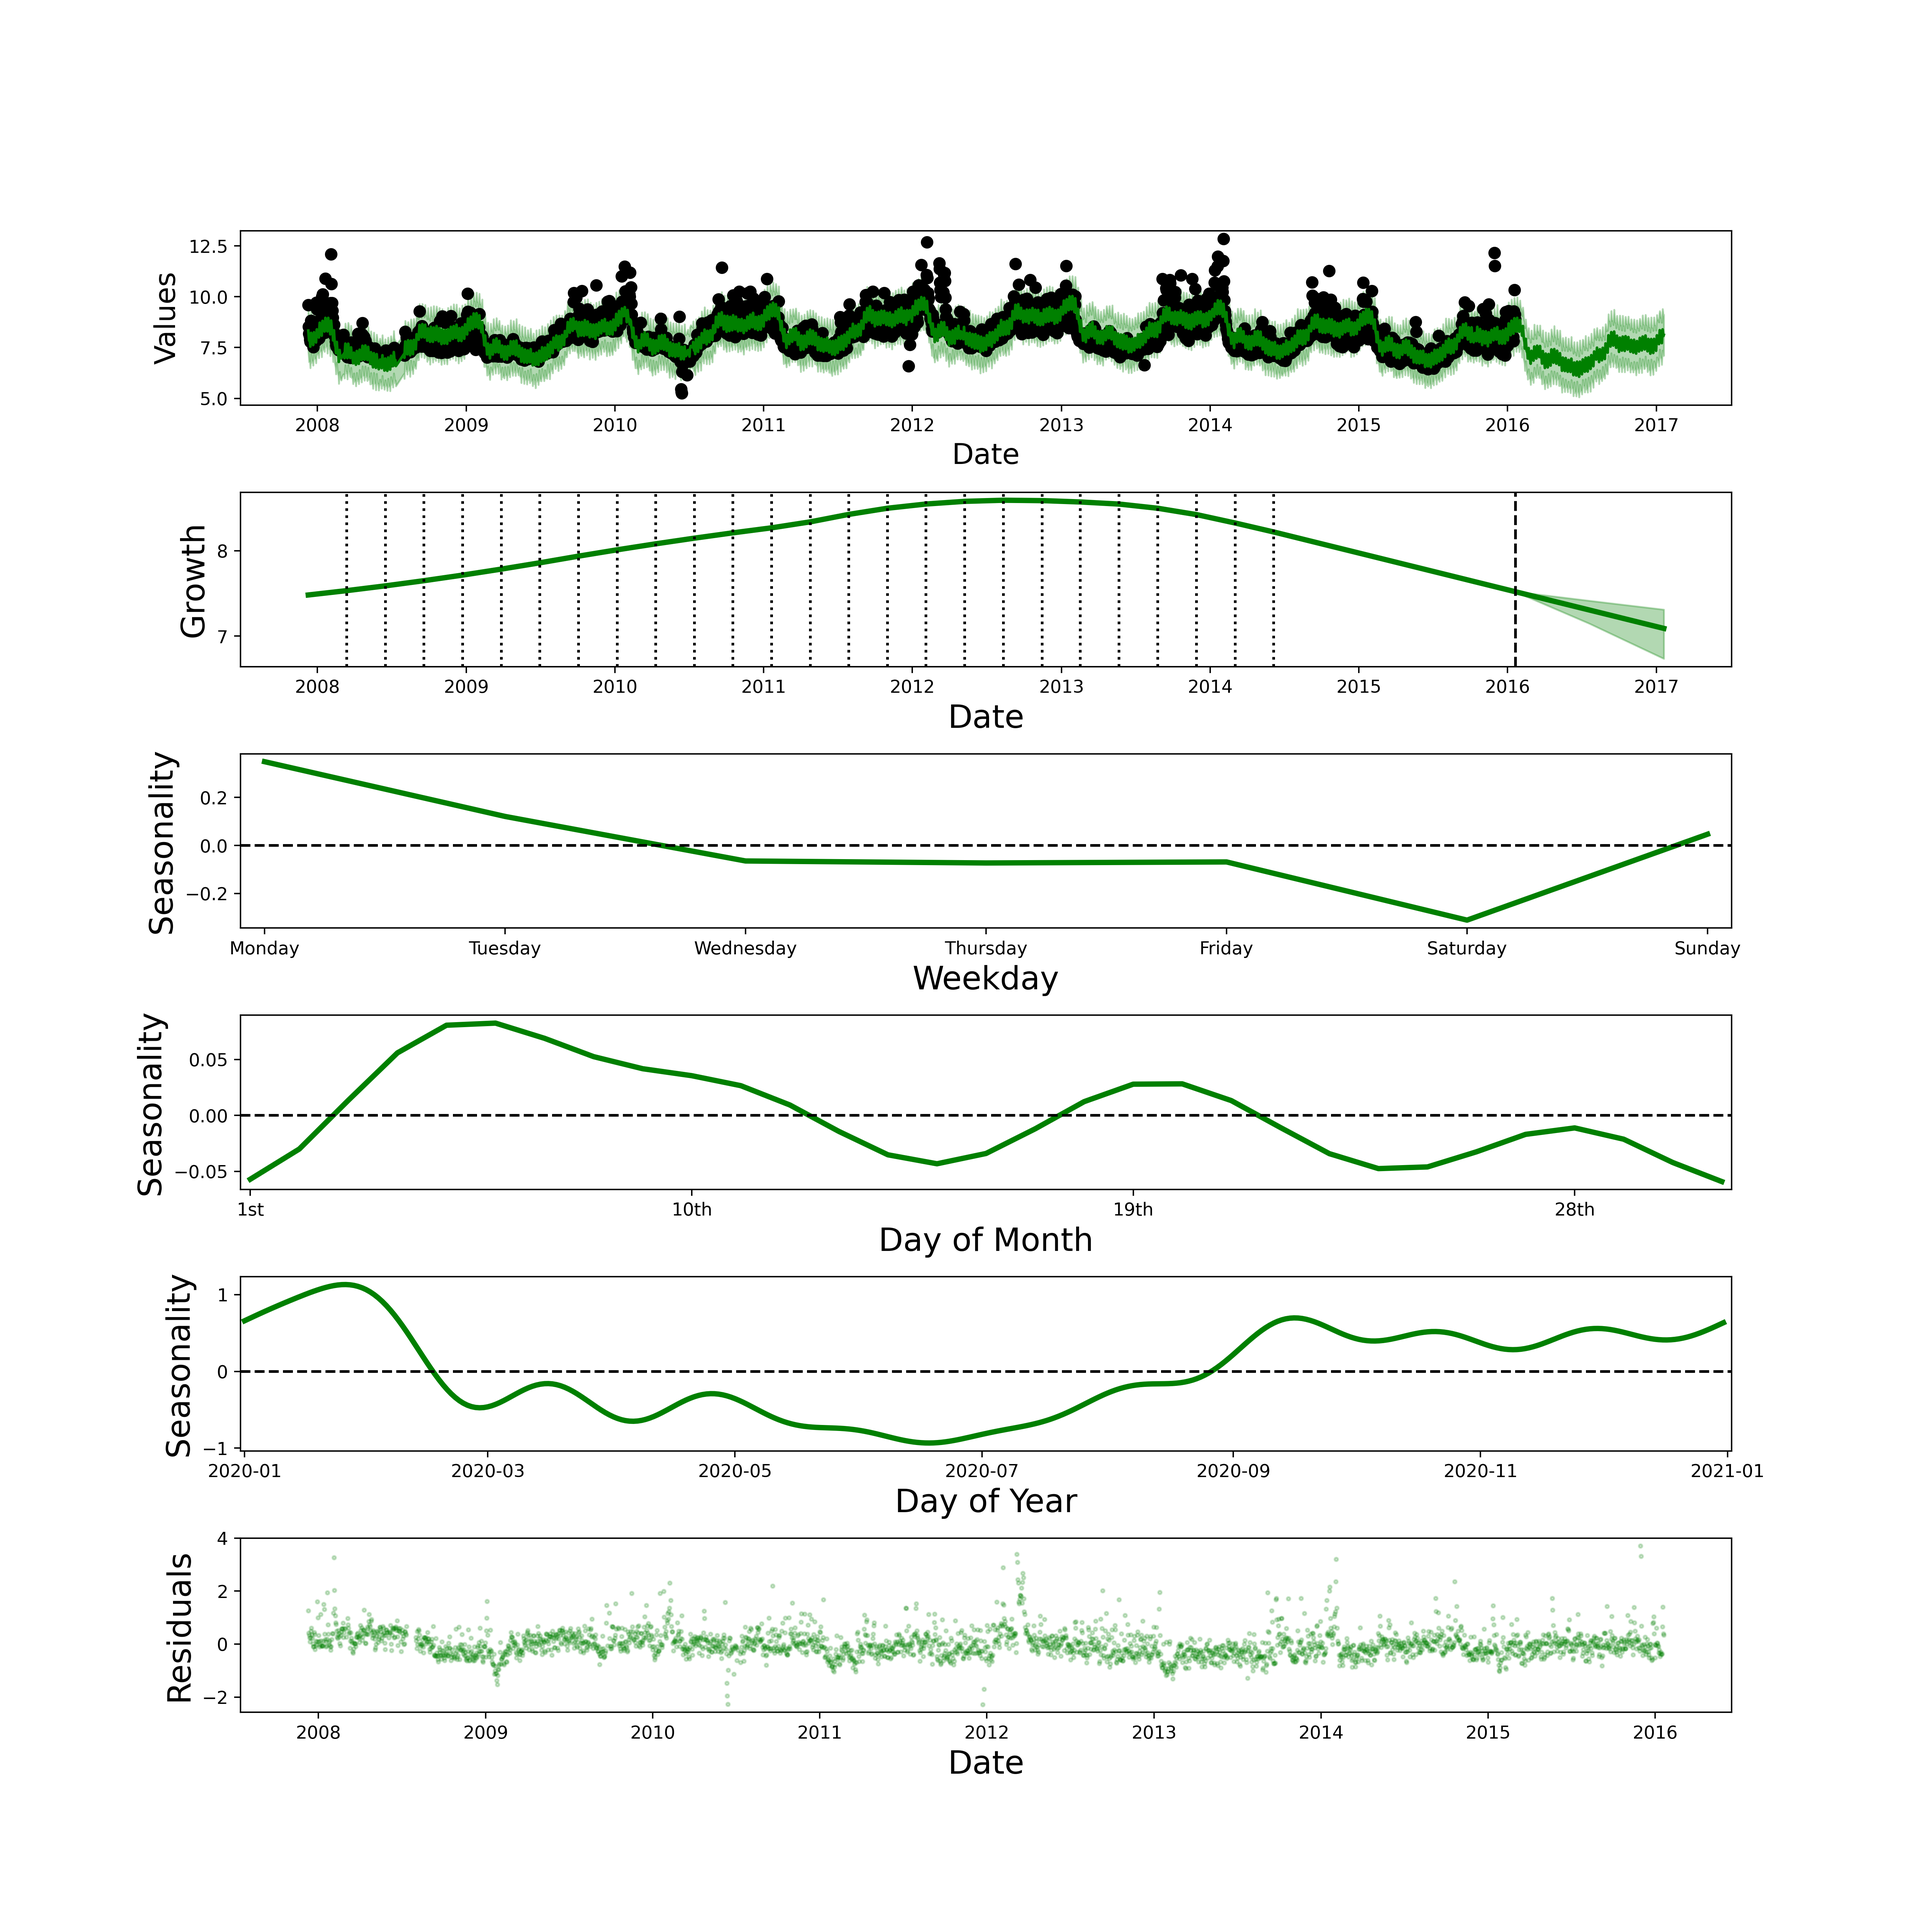
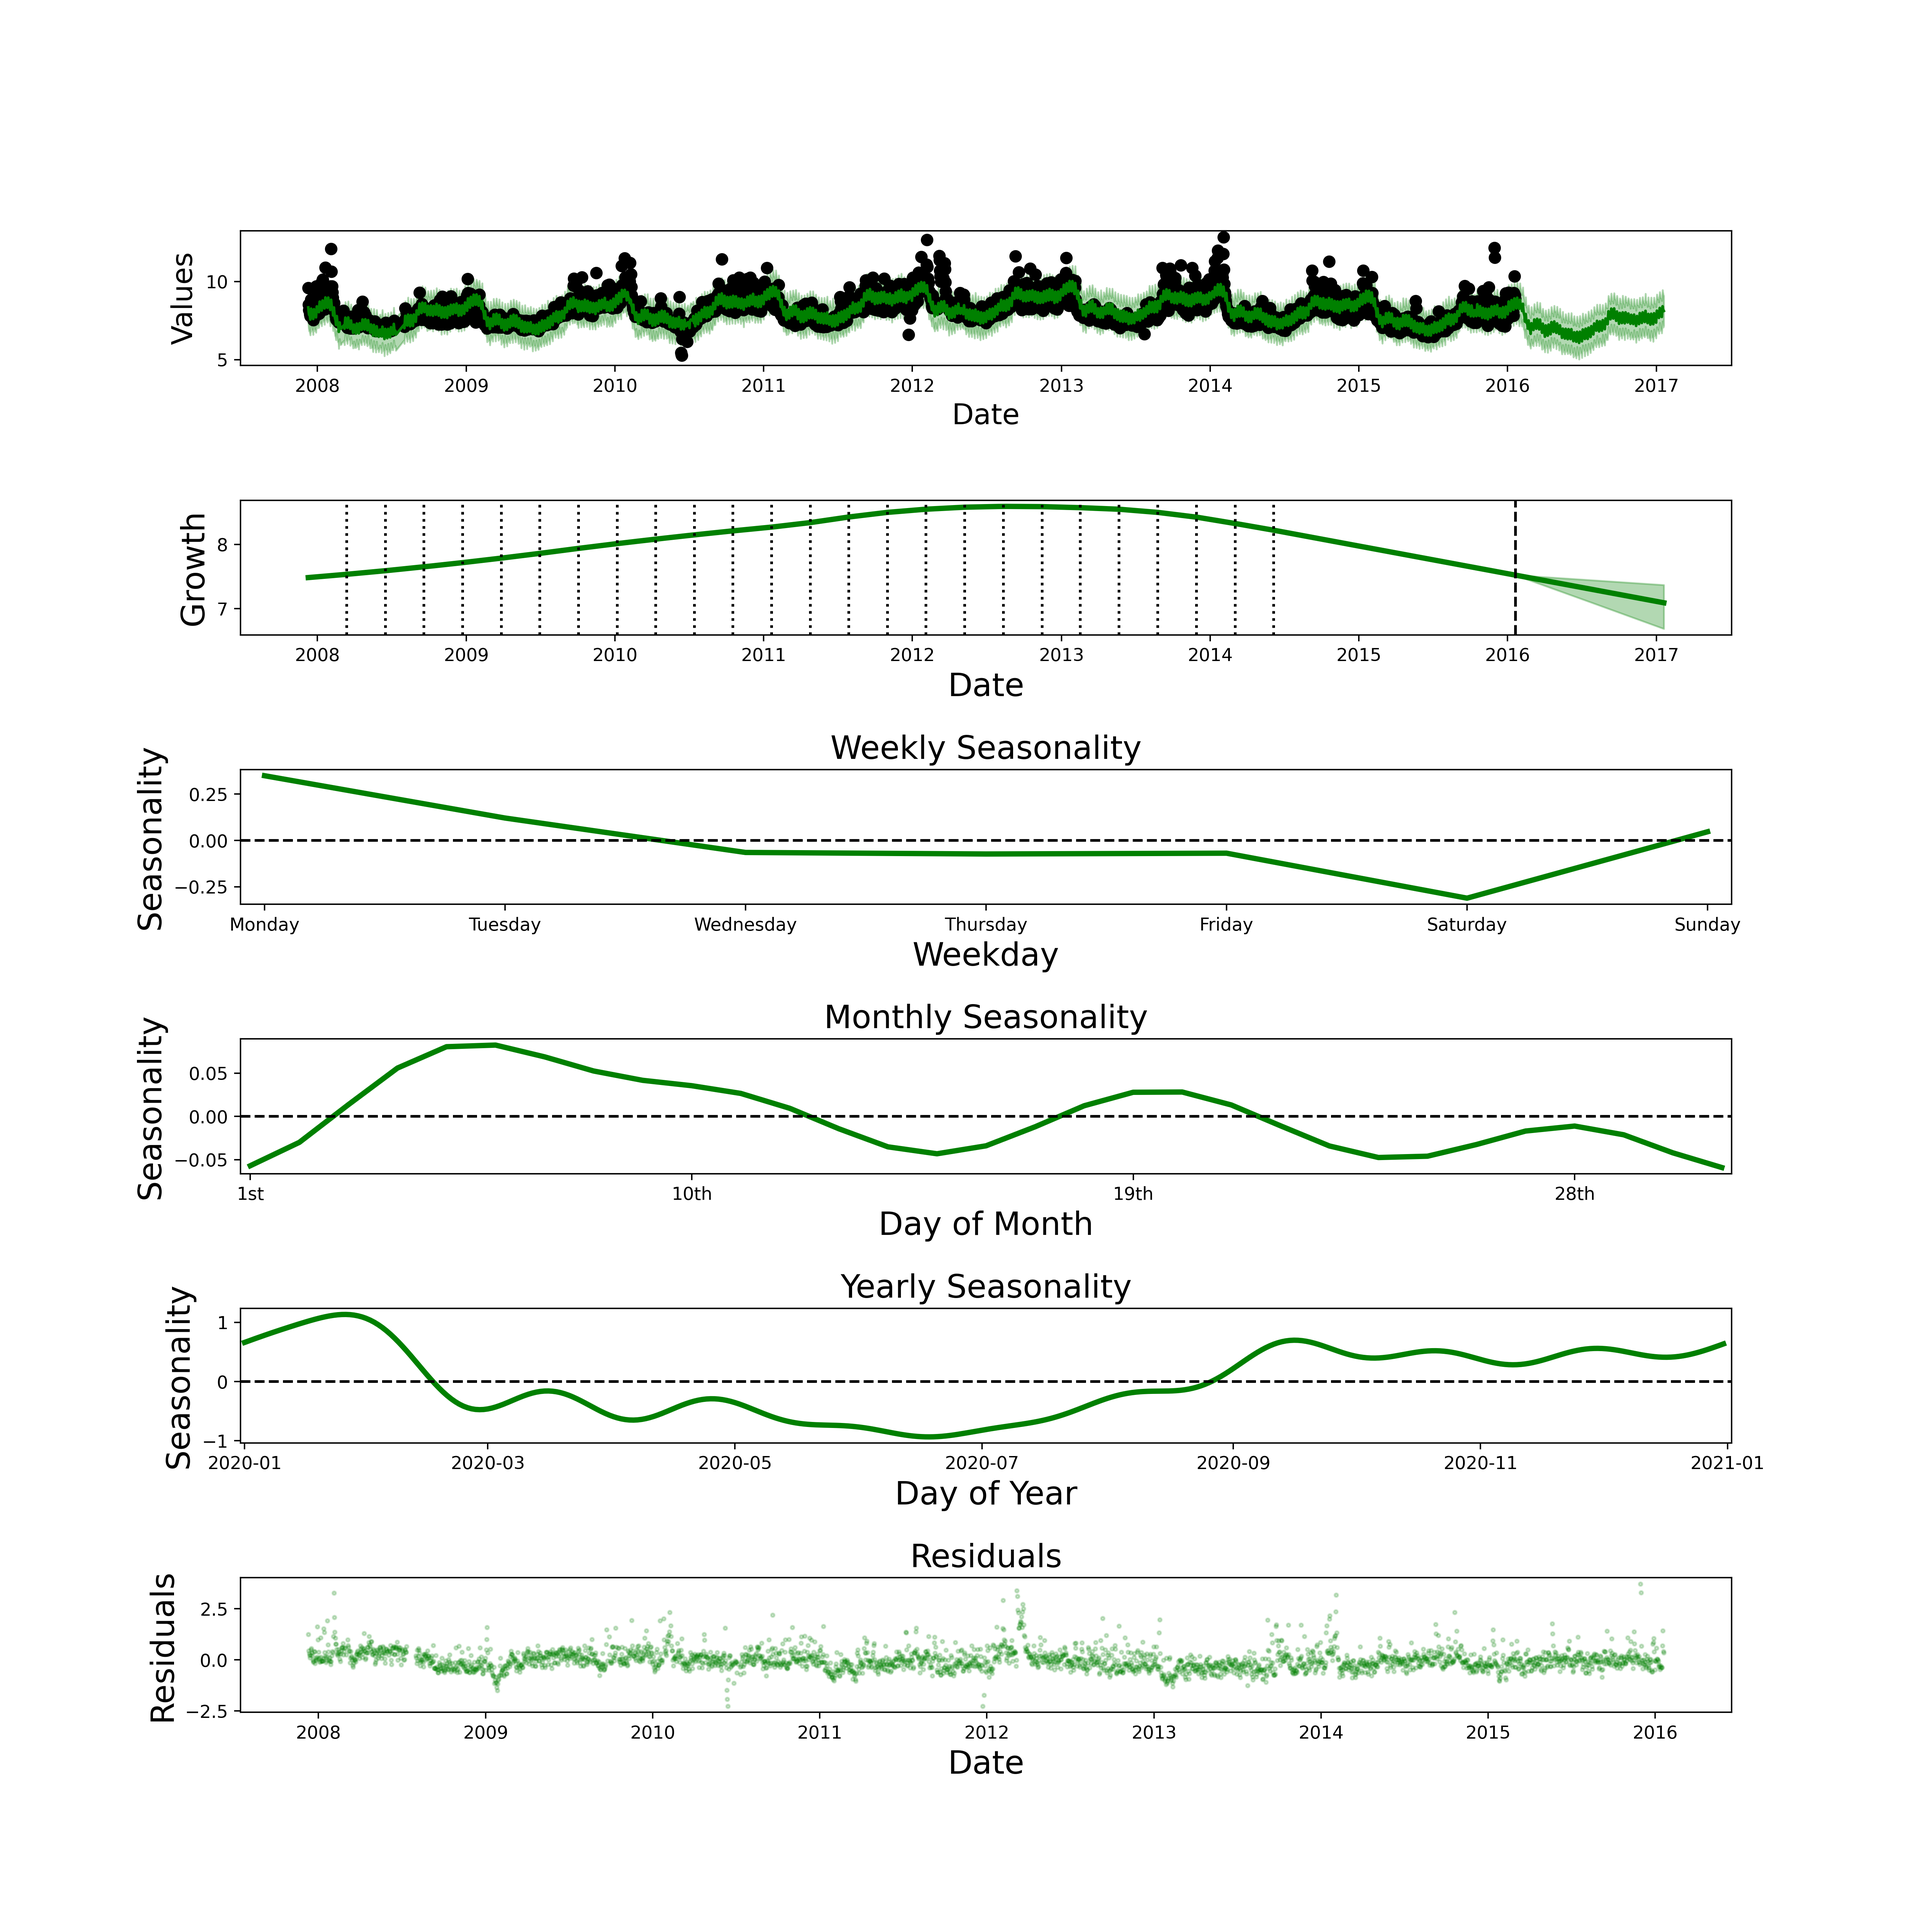
documenting current code

diff --git a/chronos.py b/chronos.py
@@ -1186,57 +1186,71 @@ class Chronos:
             current_axs += 1
 
         if (self.month_seasonality_order_ > 0):
-            monthly_seasonality = self.get_seasonality("monthly")
+            '''monthly_seasonality = self.get_seasonality("monthly")
             axs[current_axs].plot(monthly_seasonality['X'], monthly_seasonality['Y'], linewidth=3, c="green")
             axs[current_axs].axhline(0.0, c="black", linestyle="--")
             axs[current_axs].set_xticks(monthly_seasonality['X'].values[::9])
             axs[current_axs].set_xticklabels(monthly_seasonality['Label'].values[::9])
             axs[current_axs].set_xlim(-0.2, 30.2)
             axs[current_axs].set_xlabel('Day of Month', size=18)
-            axs[current_axs].set_ylabel('Seasonality', size=18)
+            axs[current_axs].set_ylabel('Seasonality', size=18)'''
+            self.plot_monthly_seasonality(axs[current_axs])
             current_axs += 1
 
         if (self.year_seasonality_order_ > 0):
-            yearly_seasonality = self.get_seasonality("yearly")
+            '''yearly_seasonality = self.get_seasonality("yearly")
             axs[current_axs].plot(yearly_seasonality['X'], yearly_seasonality['Y'], linewidth=3, c="green")
             axs[current_axs].axhline(0.0, c="black", linestyle="--")
             axs[current_axs].set_xlim(datetime.date(2019, 12, 31), datetime.date(2021, 1, 2))
             axs[current_axs].set_xlabel('Day of Year', size=18)
-            axs[current_axs].set_ylabel('Seasonality', size=18)
+            axs[current_axs].set_ylabel('Seasonality', size=18)'''
+            self.plot_yearly_seasonality(axs[current_axs])
             current_axs += 1
 
         
         X = predictions[self.time_col_]
         Y = predictions[self.target_col_]
         Y_hat = predictions['yhat']
-        Y_diff = Y - Y_hat
+        '''Y_diff = Y - Y_hat
         
         axs[current_axs].scatter(trend_X, Y_diff, c="green", s=4, alpha=0.2)
         axs[current_axs].set_xlabel('Date', size=18)
-        axs[current_axs].set_ylabel('Residuals', size=18)
+        axs[current_axs].set_ylabel('Residuals', size=18)'''
+        self.plot_residuals(X, Y, Y_hat, axs[current_axs])
 
-        plt.subplots_adjust(hspace=0.5)
+        plt.subplots_adjust(hspace=1.0)
         if (figure_name is not None):
             plt.savefig(figure_name, dpi=96*4)
         plt.show()
     ########################################################################################################################
     def plot_weekly_seasonality(self, axs=None):
         '''
+            A function which plots the weekly seasonality. An optional axis can be passed in
+            for the drawing to take place on in case a subplot is used. If no matplotlib axis
+            is passed in, the function draws the resulting figure and returns it
+
 
             Parameters:
             ------------
-            
+            axs -   Optional argument, a matplotlib subplot axis for the drawing to take place
+                    on.
 
             
             Returns:
             ------------
-            
+            fig -   An optional return parameter. If no axis is passed in as an argument, a new
+                    figure is created and returned upon drawing.
         '''
+
+        # Grab the weekly seasonality
         weekly_seasonality = self.get_seasonality("weekly")
+
+        single_figure = False
+        # Make sure to build a new figure if we don't have one
         if (axs is None):
-            fig, axs = plt.subplots(1, 1, figsize=(15, 15))
+            single_figure = True
+            fig, axs = plt.subplots(1, 1, figsize=(15, 5))
         
-        weekly_seasonality = self.get_seasonality("weekly")
         axs.plot(weekly_seasonality['X'], weekly_seasonality['Y'], linewidth=3, c="green")
         axs.axhline(0.0, c="black", linestyle="--")
         axs.set_xticks(weekly_seasonality['X'].values)
@@ -1244,10 +1258,128 @@ class Chronos:
         axs.set_xlim(-0.1, 6.1)
         axs.set_xlabel('Weekday', size=18)
         axs.set_ylabel('Seasonality', size=18)
+        axs.set_title('Weekly Seasonality', size=18)
 
+        if (single_figure):
+            plt.show()
+            return fig
+    ########################################################################################################################
+    def plot_monthly_seasonality(self, axs=None):
+        '''
+            A function which plots the monthly seasonality. An optional axis can be passed in
+            for the drawing to take place on in case a subplot is used. If no matplotlib axis
+            is passed in, the function draws the resulting figure and returns it
+
+
+            Parameters:
+            ------------
+            axs -   Optional argument, a matplotlib subplot axis for the drawing to take place
+                    on.
+
+            
+            Returns:
+            ------------
+            fig -   An optional return parameter. If no axis is passed in as an argument, a new
+                    figure is created and returned upon drawing.
+        '''
+        # Grab the monthly seasonality
+        monthly_seasonality = self.get_seasonality("monthly")
+
+
+        single_figure = False
+        # Make sure to build a new figure if we don't have one
         if (axs is None):
-            fig.show()
-                
+            single_figure = True
+            fig, axs = plt.subplots(1, 1, figsize=(15, 5))
+
+        axs.plot(monthly_seasonality['X'], monthly_seasonality['Y'], linewidth=3, c="green")
+        axs.axhline(0.0, c="black", linestyle="--")
+        axs.set_xticks(monthly_seasonality['X'].values[::9])
+        axs.set_xticklabels(monthly_seasonality['Label'].values[::9])
+        axs.set_xlim(-0.2, 30.2)
+        axs.set_xlabel('Day of Month', size=18)
+        axs.set_ylabel('Seasonality', size=18)
+        axs.set_title("Monthly Seasonality", size=18)
+
+        if (single_figure):
+            plt.show()
+            return fig
+
+    ########################################################################################################################
+    def plot_yearly_seasonality(self, axs=None):
+        '''
+            A function which plots the yearly seasonality. An optional axis can be passed in
+            for the drawing to take place on in case a subplot is used. If no matplotlib axis
+            is passed in, the function draws the resulting figure and returns it
+
+
+            Parameters:
+            ------------
+            axs -   Optional argument, a matplotlib subplot axis for the drawing to take place
+                    on.
+
+            
+            Returns:
+            ------------
+            fig -   An optional return parameter. If no axis is passed in as an argument, a new
+                    figure is created and returned upon drawing.
+        '''
+        # Grab the yearly seasonality
+        yearly_seasonality = self.get_seasonality("yearly")
+
+        single_figure = False
+        # Make sure to build a new figure if we don't have one
+        if (axs is None):
+            single_figure = True
+            fig, axs = plt.subplots(1, 1, figsize=(15, 5))
+
+        axs.plot(yearly_seasonality['X'], yearly_seasonality['Y'], linewidth=3, c="green")
+        axs.axhline(0.0, c="black", linestyle="--")
+        axs.set_xlim(datetime.date(2019, 12, 31), datetime.date(2021, 1, 2))
+        axs.set_xlabel('Day of Year', size=18)
+        axs.set_ylabel('Seasonality', size=18)
+        axs.set_title('Yearly Seasonality', size=18)
+
+        if (single_figure):
+            plt.show()
+            return fig
+
+    ########################################################################################################################
+    def plot_residuals(self, x, y_true, y_pred, axs=None):
+        '''
+            A function which plots the residuals of the fit. An optional axis can be passed in
+            for the drawing to take place on in case a subplot is used. If no matplotlib axis
+            is passed in, the function draws the resulting figure and returns it
+
+
+            Parameters:
+            ------------
+            axs -   Optional argument, a matplotlib subplot axis for the drawing to take place
+                    on.
+
+            
+            Returns:
+            ------------
+            fig -   An optional return parameter. If no axis is passed in as an argument, a new
+                    figure is created and returned upon drawing.
+        '''
+        y_residuals = y_true - y_pred
+
+        single_figure = False
+        # Make sure to build a new figure if we don't have one
+        if (axs is None):
+            single_figure = True
+            fig, axs = plt.subplots(1, 1, figsize=(15, 5))
+        
+        axs.scatter(x, y_residuals, c="green", s=4, alpha=0.2)
+        axs.set_xlabel('Date', size=18)
+        axs.set_ylabel('Residuals', size=18)
+        axs.set_title('Residuals', size=18)
+
+        if (single_figure):
+            plt.show()
+            return fig
+
     ########################################################################################################################
     def plot_weekly_seasonality_plotly(self):
         '''
@@ -1272,25 +1404,8 @@ class Chronos:
         fig.show()
 
     
-    ########################################################################################################################
-    def plot_monthly_seasonality(self):
-        '''
-
-            Parameters:
-            ------------
-            
-
-            
-            Returns:
-            ------------
-            
-        '''
-        monthly_seasonality = self.get_monthly_seasonality()
-        plt.figure(figsize=(15,5))
-        plt.plot(monthly_seasonality['Monthday'], monthly_seasonality['Value'])
-        plt.axhline(0.0, c="black")
-        plt.xlim(1.0, 30.0)
-        plt.show();
+    
+    
     ########################################################################################################################
     def plot_monthly_seasonality_plotly(self):
         '''
@@ -1314,26 +1429,7 @@ class Chronos:
                                      ticktext = monthly_seasonality['Label']),
                           title=dict(text="Monthly Seasonality", x = 0.5))    
         fig.show()
-    ########################################################################################################################
-
-    def plot_yearly_seasonality(self):
-        '''
-
-            Parameters:
-            ------------
-            
-
-            
-            Returns:
-            ------------
-            
-        '''
-        yearly_seasonality = self.get_yearly_seasonality()
-        plt.figure(figsize=(15,5))
-        plt.plot(yearly_seasonality['X'], yearly_seasonality['Y'])
-        plt.axhline(0.0, c="black")
-        plt.xlim(1.0, 366.0)
-        plt.show()
+    
         
     ########################################################################################################################
     def plot_yearly_seasonality_plotly(self):

diff --git a/test_script.py b/test_script.py
@@ -36,6 +36,7 @@ plt.show()#'''
 
 my_chronos.plot_components(predictions, figure_name="Complete plot.png")
 
-#my_chronos.plot_weekly_seasonality_plotly()
-#my_chronos.plot_monthly_seasonality_plotly()
-#my_chronos.plot_yearly_seasonality_plotly()
+my_chronos.plot_weekly_seasonality()
+my_chronos.plot_monthly_seasonality()
+my_chronos.plot_yearly_seasonality()
+my_chronos.plot_residuals(predictions['ds'], predictions['y'], predictions['yhat'])
